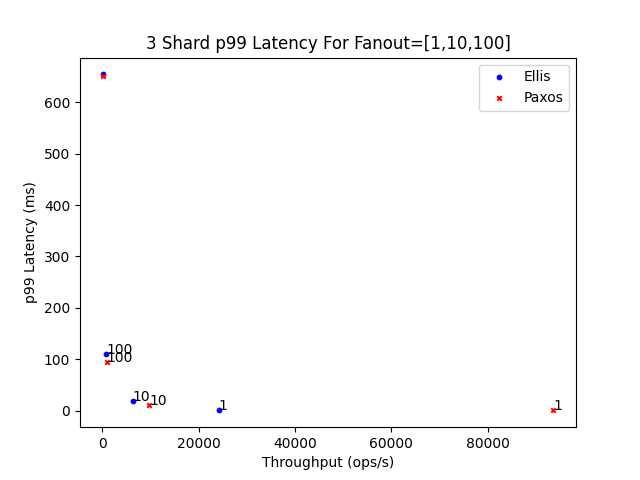
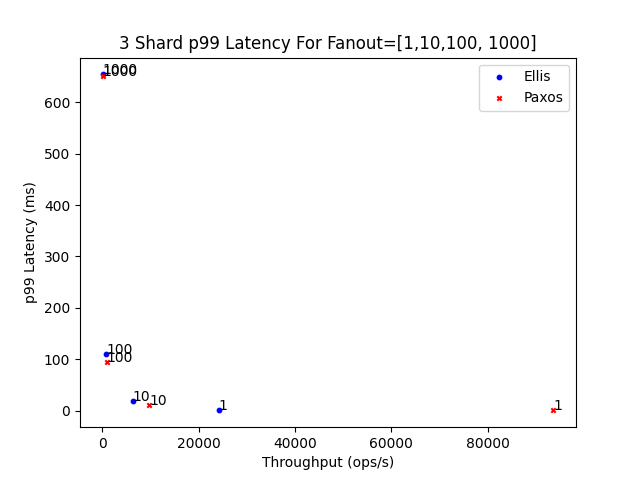
some more text for eval... still needs interation

Changed region(s): [[0.1875, 0.0625, 0.8438, 0.125], [0.1562, 0.125, 0.2188, 0.1562]]

diff --git a/eval.tex b/eval.tex
@@ -95,65 +95,77 @@
 %%%%%%%%%%%%%%%%%%%%%%%%%%%%%%%%%%%%%%%%%%%%%%%%%%%%%%%%%%%%%%%%%%%%%%%%%%%%%%%%%%%
 
 %TODO
-This section describes how we evaluated \protocol's performance handling requests from multi-dispatch clients compared to \mpaxos's performance handling requests from single-dispatch clients. 
-Our focus is on improving end-to-end latency for applications, so we measure application-level request throughput and latency.
-We show that our approach achieves improved end-to-end latency for application level-requests, and scales with the number of subrequests issued per application request. 
-
-% Defend choice of metrics -- should this go in another section?
-We evaluate both the p99 tail latency as well as p50 median latency. We found that the variability for individual application-level requests was quite high,
+This section describes how we evaluate \system's performance handling requests from multi-dispatch clients compared to \mpaxos's performance handling requests from single-dispatch clients. 
+Our focus is on measuring latency and throughput of application-level requests, since we aim to improve end-to-end latency for applications.
+We also look at how \system scales from single-shard to multi-shard configurations, and how sensitive performance is to skewed workloads.
+We show that our approach achieves improves end-to-end latency for application level-requests, and scales with the number of subrequests (fanout) issued per application request. 
 
 \subsection{Experimental Set-up}
 All experiments are conducted on Cloudlab's Utah platform ~\ref{}, using m510 machines. 
 Our experimental setup consists of a 9-node cluster and 2 client machines. 
 Each machine has 1 Intel Xeon-D processor with 8 physical cores running at 2 GHz with hyperthreading enabled, 64 GB of DDR4-2133 RAM, and a 10 Gb/s NIC. 
 The roundtrip latency between all machines is around 150 $\mu$s, thus intershard, intrashard, and client-leader latencies are all equal. 
-For multi-sharded experiments we evenly distribute replicas across physical machines, placing leaders on different nodes when possible. %TODO
-
-We set the poch length for \system to 1 ms.
+Each shard contains 3 replicas, all placed on different physical machines. For multi-sharded experiments we place shard leaders on different physical machines as well. 
+We set the epoch length for \system to 1 ms.
 
 \subsection{Client Design}
-We evenly distribute client processes across the 2 client machines. Client processes submit application-level requests. Each application-level request submits $n$ system-level subrequests, where $n$ is equal to the fanout parameter for a given experiment. For single-dispatch clients interacting with \mpaxos, only a single system-level subrequest is in-flight at a time, the next subrequest is not issued until the response is received for the preceding subrequest. For multi-dispatch clients interacting with \protocol, all $n$ system-level subrequests are in-flight at the same time, each is submitted in order and does not wait until the response is received for the preceding subrequest.
+We evenly distribute client processes across the 2 client machines. Client processes submit application-level requests. Each application-level request submits $n$ system-level subrequests, where $n$ is equal to the fanout parameter for a given experiment. For single-dispatch clients interacting with \mpaxos, only a single system-level subrequest is in-flight at a time, the next subrequest is not issued until the response is received for the preceding subrequest. For multi-dispatch clients interacting with \system, all $n$ system-level subrequests are in-flight at the same time, each is submitted in order and does not wait until the response is received for the preceding subrequest.
 
 Each client process is a closed-loop client that submits a single application-level request at a time. The next application-level request is not submitted until all subrequests return. 
 
-In each experiment, we scale the number of clients issueing requests to both systems from 2 to 128 by factors of 2. It's worth noting that since multi-dispatch clients have $n$ requests in-flight at a time, while single-dispatch clients only have 1 request in-flight at a time, \protocol leaders have to deal with $n$ more requests than \mpaxos at any given time for the same number of clients, which is a disadvantage for our system.
+In each experiment, we scale the number of clients issueing requests to both systems from 2 to 128 by factors of 2. It's worth noting that since multi-dispatch clients have $n$ requests in-flight at a time, while single-dispatch clients only have 1 request in-flight at a time, \system leaders have to deal with $n$ more requests than \mpaxos at any given time for the same number of clients, which is a disadvantage for our system.
 
 %For a fair comparison between MDL and SDL, we keep the number of outstanding requests sent to each system the same. To achieve this, MDL uses a smaller number of clients $K$ with the specified number $N$ of outstanding requests per client, while SDL uses $K*N$ clients each with 1 outstanding request per client.
 
 % \wl{How does keeping the overall number of requests the same mean the load is the same? We discussed this, you can explain this clearly: keep number of outstanding requests the same in both systems, for mdl this uses a smaller number of clients with the specified number of outstanding requests per client, for sdl its N clients with 1 outstanding request per client.}
 
+\subsection{Metrics}
+% perhaps we should look at p90
+We report on both the p99 and p50 for application-request latency. 
+We find p50 a useful metric to look at since our decision to evaluate application-level requests is already end-user facing. 
+
+Our results indicate that p99 has a significant increase in latency over even p95, which we report but do not find representative of the average case latency that users should expect when interacting with \system. This could be due to a number of factors, such as the variability of each system-level request (which we do not focus on improving) and our use of Golang tickers to implement epochs.
+
 \subsection{Workload}
-We consider uniform and skewed key distributions to explore a more representative range of realistic workloads. For the latter, we generate keys according to a Zipfian distribution with varying skew values $\theta \in \{0.5, 0.7, 0.9, 1.1, 1.3\}$. 
+We consider uniform and skewed key distributions to explore a more representative range of realistic workloads. For the latter, we generate keys according to a Zipfian distribution with varying skew values $\theta \in \{0.5, 0.7, 0.9, 1.1, 1.3\}$, and use a keyspace of size 1 million. 
 
 We do not vary the request type at all, all workloads are 100\% writes, since neither our protocol nor basic Paxos implement op-type specific optimizations. 
 
 \subsection{Failures}
-We do not consider leader failover in this evaluation. Since failures are rare, and unavoidably degrade performance for most protocols, we only consider the normal mode of operation for \protocol and \mpaxos. Details about the failover specifics in the protocol can be found in ~\ref{sec:design}.
+We do not consider leader failover in this evaluation. Since failures are rare, and unavoidably degrade performance for most protocols, we only consider the normal mode of operation for \system and \mpaxos. Details about the failover specifics in the protocol can be found in ~\ref{sec:design}.
 
 \subsection{Single-Shard}
 In this section, we compare the end-to-end application request latency for \system and \mpaxos configured with a single shard. We consider uniform key distribution and vary the fanout parameter.
 
 For each fanout value, we select the number of clients that saturates \system, and plot the p99 and p50 latency for both \system and \mpaxos with that number of clients. Note, this selection for number of clients does not always saturate \mpaxos.
 
-Figures ~\ref{fig:1shardp99} and ~\ref{fig:1shardp50} show the throughput latency curves for ranging fanout values of application-level requests. Since our implementation uses an epoch value of 1ms, \system is unable to outpeform \mpaxos until around fanout = 10. \system outperforms \mpaxos for large fanout values, and 
+Figures ~\ref{fig:1shardp99} and ~\ref{fig:1shardp50} show the throughput latency curves for ranging fanout values of application-level requests. Since our implementation uses an epoch value of 1ms, \system is unable to match \mpaxos until around fanout 10, but outperforms for large fanout values of $100$ and $1000$.
 
-
-%discuss relationship between epoch and T, N
-%mention that scaling the sdl clients would make us look better.
+In the single-shard setting, this improvement is most sensitive to our selection of epoch length, as well as the relationship between this value and leader-replica roundtrip latencies. 
+The coordination overhead on a single shard is much smaller as compared to the multi-shard setting since there is no leader-to-leader communication. We notice a substantial improvement for latencies at fanouts $100$ and $1000$.
 
 \subsection{Multi-Shard}
 \label{sec:shards}
-In this section, we show how the MDL e2e application latency scales with the number of shards. 
+In this section, we look at the application-level request latencies for 3-shard and 9-shard configurations, shown in figures ~\ref{fig:3shardp99} -- ~\ref{fig:9shardp50}.
 
-%Discuss p99 for 3 shards over range of fanouts
+We expect \system to approach a 50\% improvement compared to \mpaxos as fanout increases.
+As described in section ~\ref{sec:design}, an application-level request of fanout $n$ induces $n-1$ 1-way intershard coordination messages, that must be serialized with predecessor fault-tolerance and coordination.
+Because of this, we see the multi-shard performance degrade for even fanout $100$. 
+Moreover, with an epoch selection of 1ms, the requests issued last in an application-level request induce extra epoch lengths of waiting for coordination to arrive from the first concurrent request issued.
+
+We notice improvement at 9-shards, however, as the coordination overhead per leader substantially decreases. We expect an optimal configuration to consider selecting a number of shards that balances load per leader.
+
+%TODO probably remove this paragraph... i don't think it's actually a "win"
+Finally, we chose not to vary the amount of time between system-level subreqeusts issued for each application-level request, all subrequests are sent immediately for multi-dispatch clients. Because of this, the final request wait the full coordination and committment latencies of each request that precedes it. For multi-dispatch clients that asynchronously issue requests with some variable delay between each request, this delay can overlap with the committment and coordination of predecessors, allowing successive reqeusts to appear to be coordinated sooner.
 %show the latency improves at 9 shards over range of fanouts
 %explain why it's better, what's happening, what overhead we've introduced
 %mention that p50 is better.
 
 \subsection{Skew}
+In this section, we look at how varying key skew impacts the multi-shard performance of \system.
+Our graphs show various skew values for the 3-shard and 9-shard configurations. We look at CDFs for application-level requests with fanout 100 issued by 16 concurrent clients. 
 
-Our graphs show skew for fanout = 100 with 16 clients. Overall we don't see much of an impact from skew (that's why we graph the CDFs at some saturated client load).
-%show p99 for fanout=100, pick clients = saturation point.... over all 5 skew ranges
+Overall we don't see much of an impact of skew on end-to-end latency.
 
 \begin{comment}
 \subsection{MDL with Geo-rep in the Wide Area}

diff --git a/implementation.tex b/implementation.tex
@@ -1,6 +1,6 @@
 \section{Implementation}
 \label{sec:implementation}
-We implemented \protocol by modifying the existing implementation of basic \mpaxos from the EPaxos codebase ~\ref{} written in Go. To provide a fair comparison against the \mpaxos baseline, we change as little as possible within the existing framework. Both \protocol and Paxos have single threaded leaders and replicas, neither have operation type-specific optimizations (such as read leases), both use the thrifty optimization, and neither use batching for fault-tolerance. The existing framework implements a replicated key-value store.
+We implemented \system by modifying the existing implementation of basic \mpaxos from the EPaxos codebase ~\ref{} written in Go. To provide a fair comparison against the \mpaxos baseline, we change as little as possible within the existing framework. Both \system and Paxos have single threaded leaders and replicas, neither have operation type-specific optimizations (such as read leases), both use the thrifty optimization, and neither use batching for fault-tolerance. The existing framework implements a replicated key-value store.
 
 We extend the message types each replica handles to include our coordination and final ordering messages, and we use a Golang ticker object ~\cite{} to implement epochs. It's worth noting the inaccuracy of Golang tickers for values below 2ms ~\ref{}, thus for most of our experiments (which have an epoch shorter than 2ms) there is noticeable variability for epoch length.
 

diff --git a/paper.tex b/paper.tex
@@ -92,7 +92,7 @@
 \def \mdl  {Multi-dispatch Linearizability\xspace}
 \def \sd  {SDL\xspace}
 \def \md  {MDL\xspace}
-\def \protocol {Ellis\xspace}
+\def \protocol {Epoch-Sorted batching\xspace}
 
 %%%%% Formalism %%%%%
 % Theorems
